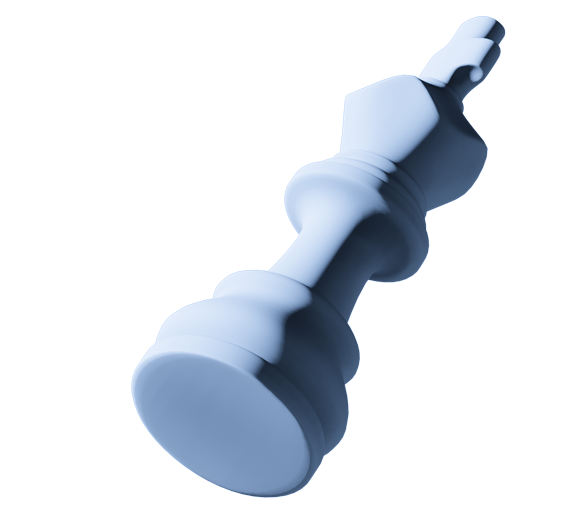
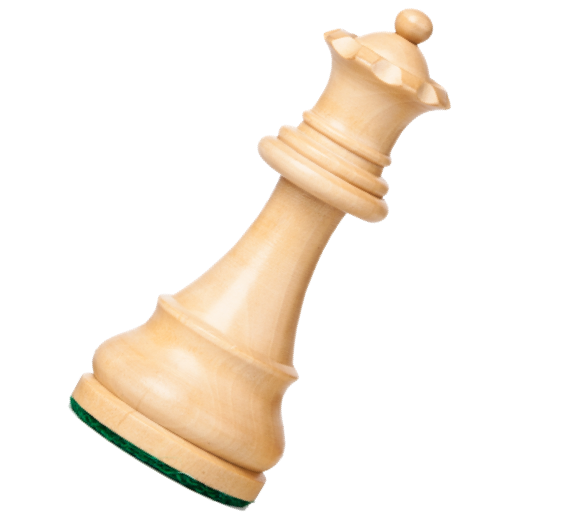
[CHG] add chess piece photo

diff --git a/src/styles/propo.scss b/src/styles/propo.scss
@@ -17,7 +17,7 @@
     content: "";
     width: 50vw;
     height: 50vw;
-    //background: url("../images/parterns_king.png") no-repeat;
+    background: url("../images/parterns_king.png") no-repeat;
     background-size: cover;
     bottom: 0;
     right: 0;
